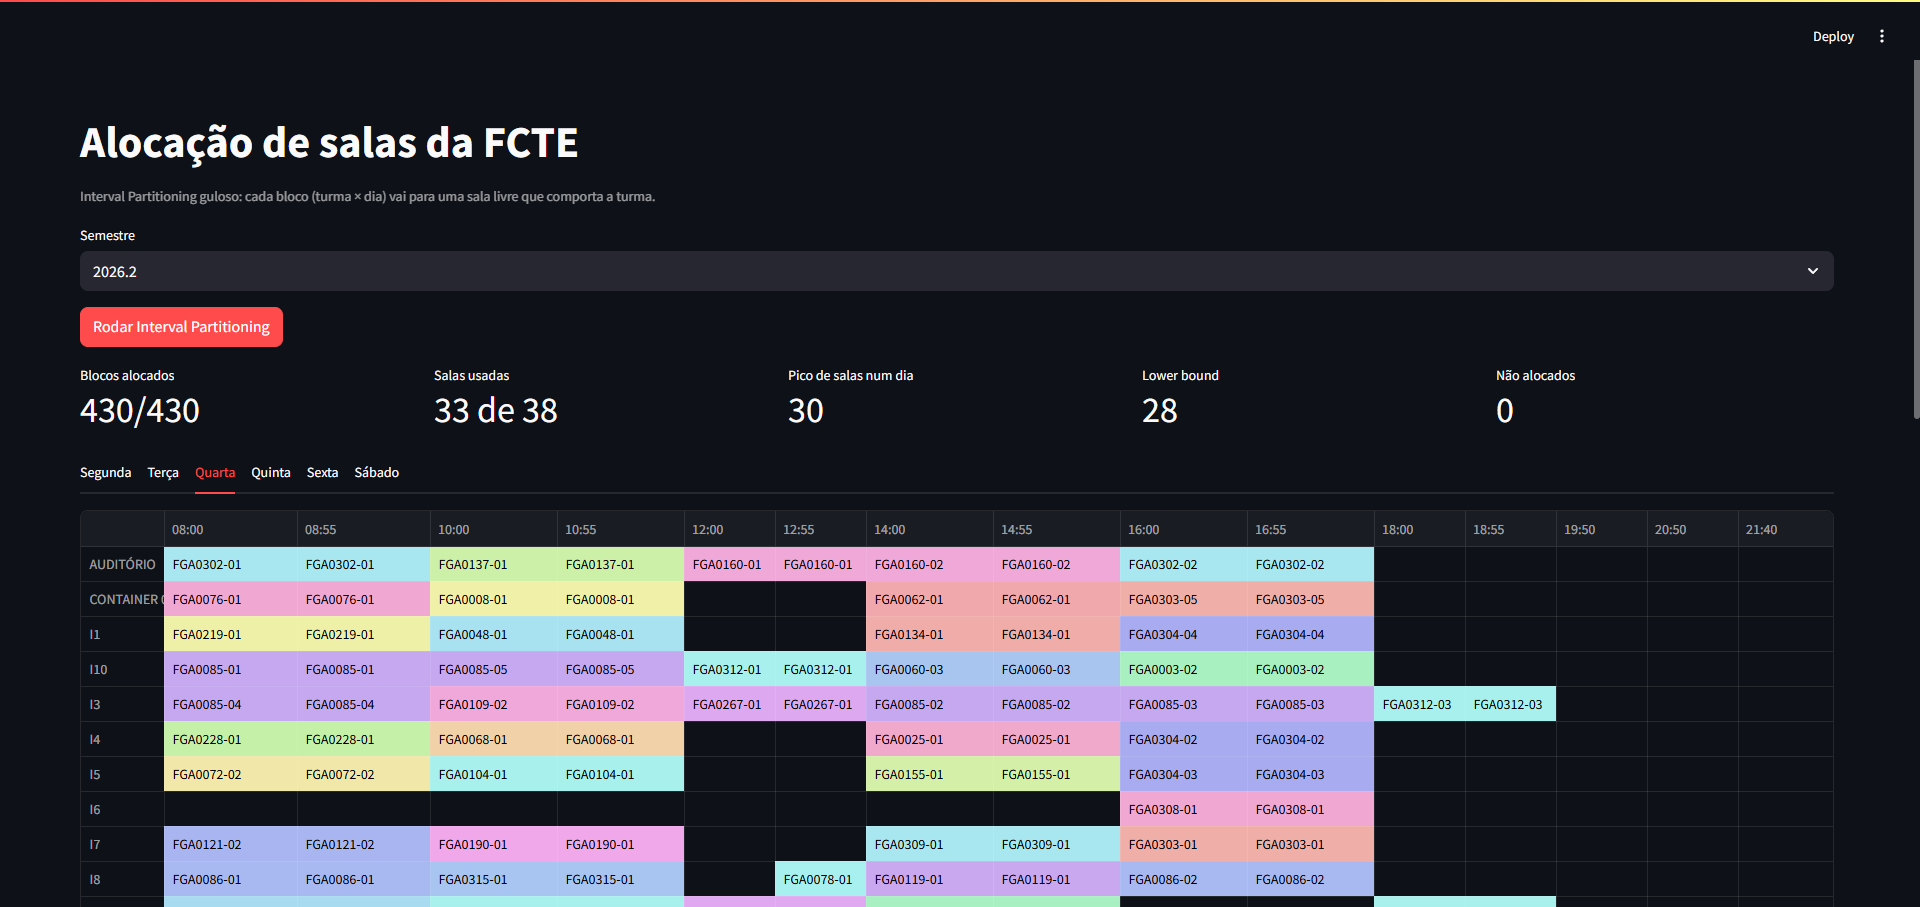
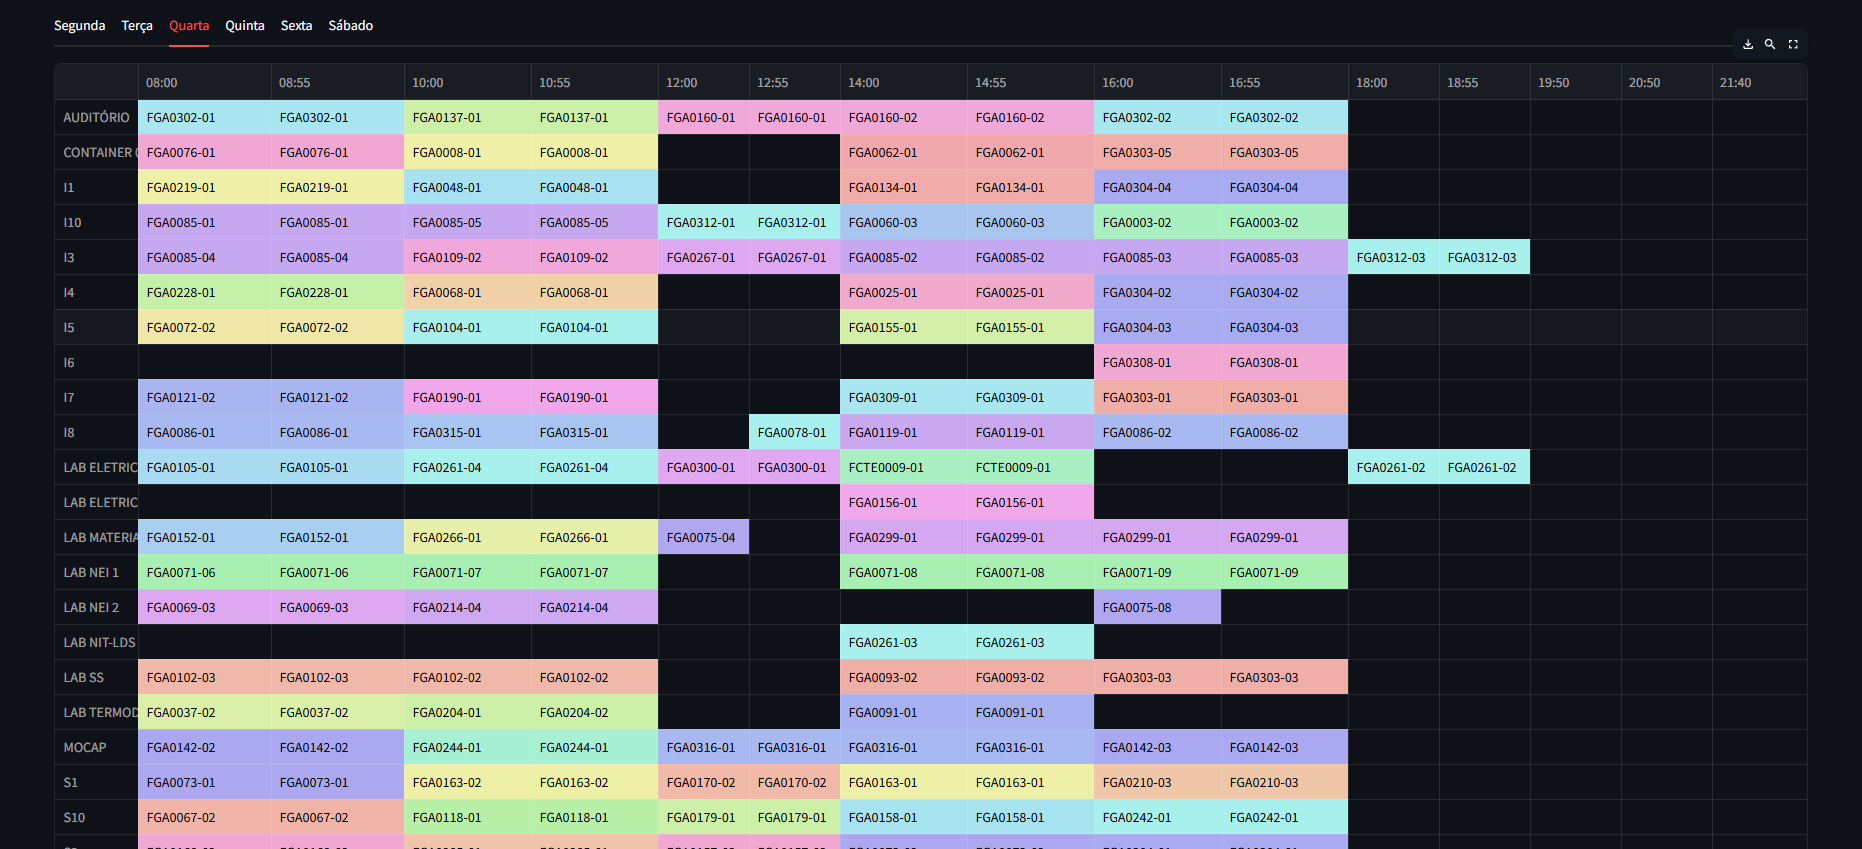
docs: README completo com screenshots atualizados
Traz o README preenchido (Sobre, algoritmo, resultados, instalação e
uso) e troca os screenshots pelos da interface atual, já com "Limite
inferior".

diff --git a/README.md b/README.md
@@ -1,11 +1,5 @@
-**!! Atenção: Renomeie o seu repositório para (Tema)_(NomeDoProjeto). !!** 
+# AlocacaoSalasFCTE
 
-Temas:
- - Greed
-
-# NomedoProjeto
-
-**Número da Lista**: X<br>
 **Conteúdo da Disciplina**: Greed<br>
 
 ## Alunos
@@ -15,34 +9,41 @@ Temas:
 | 21/1062179  |  Marcelo de Araújo Lopes |
 | 17/0020339  |  Paulo Lucca |
 
-## Sobre 
-Descreva os objetivos do seu projeto e como ele funciona. 
+## Sobre
 
-## Screenshots
-Adicione 3 ou mais screenshots do projeto em funcionamento.
+O projeto aloca as turmas de graduação da FCTE (UnB, campus Gama) nas salas do
+campus sem conflito de horário, respeitando a capacidade de cada sala e usando o
+menor número de salas possível. É o problema clássico de **Interval Partitioning**,
+resolvido com um algoritmo guloso.
 
-## Instalação 
-**Linguagem**: xxxxxx<br>
-**Framework**: (caso exista)<br>
-Descreva os pré-requisitos para rodar o seu projeto e os comandos necessários.
+Etapas:
 
-## Uso 
-Explique como usar seu projeto caso haja algum passo a passo após o comando de execução.
+1. **Coleta** (`scraper.py`): busca as turmas do semestre no SIGAA público, com
+   código, horário, vagas e local. Os dados de 2026.2 (229 turmas) estão salvos em
+   `data/turmas_2026_2.json`.
+2. **Horários** (`horario.py`): converte o código do SIGAA em intervalos. Por
+   exemplo, `35T23` vira terça e quinta, das 14:00 às 15:50.
+3. **Salas** (`salas.py`): extrai as 38 salas do campo "local" das turmas e salva em
+   `data/salas.json`. O SIGAA não informa a capacidade, então ela é estimada pelo
+   maior número de vagas ofertadas numa turma que usa aquela sala.
+4. **Alocação** (`alocacao.py`): Interval Partitioning guloso, explicado abaixo.
+5. **Interface** (`app.py`): app em Streamlit que roda a alocação e mostra a grade
+   sala × horário de cada dia.
 
-## Algoritmo: Interval Partitioning
+### Algoritmo: Interval Partitioning
 
 Cada turma é quebrada em blocos (turma × dia de aula), e cada bloco é um intervalo
 `[início, fim)`. A alocação é **por bloco**: a mesma turma pode ficar em salas
 diferentes em dias diferentes, como já acontece no SIGAA.
 
-Guloso (`alocacao.py`):
+O guloso:
 
-1. Ordena os blocos por dia e hora de início (no empate, a turma maior primeiro).
-2. Para cada bloco, olha as salas livres naquele horário que comportam as vagas da turma.
-3. Escolhe uma sala já aberta naquele dia, se houver; senão, abre a menor sala que serve.
+1. Ordena os blocos por dia e hora de início. No empate, a turma maior vem primeiro.
+2. Para cada bloco, separa as salas livres naquele horário que comportam as vagas da turma.
+3. Escolhe uma sala já aberta naquele dia, se houver. Senão, abre a menor sala que serve.
 4. Se nenhuma sala serve, o bloco entra no relatório de não alocados.
 
-**Lower bound.** A profundidade `d` é o maior número de blocos acontecendo ao
+**Limite inferior (lower bound).** A profundidade `d` é o maior número de blocos acontecendo ao
 mesmo tempo. Qualquer alocação precisa de pelo menos `d` salas, porque esses
 blocos se sobrepõem dois a dois.
 
@@ -54,13 +55,84 @@ processados por hora de início, cada um desses `k − 1` blocos começou antes 
 com `b`, são `k` blocos sobrepostos, logo `k ≤ d`. O guloso nunca usa mais que `d`
 salas, e nenhuma solução usa menos, então ele é ótimo.
 
-Com capacidade, a sala aberta pode não servir para a turma, e o guloso pode passar
-de `d`. Nos dados de 2026.2, os 430 blocos são todos alocados, com pico de 30 salas
-num dia contra um lower bound de 28.
+**Com capacidade**, a sala aberta pode não servir para a turma, e o guloso pode
+passar de `d`.
 
-## Outros 
-Quaisquer outras informações sobre seu projeto podem ser descritas abaixo.
+### Resultados (2026.2)
 
+| Métrica | Valor |
+| -- | -- |
+| Blocos alocados | 430 de 430 |
+| Salas usadas no semestre | 33 de 38 |
+| Pico de salas num dia | 30 |
+| Limite inferior (profundidade) | 28 |
+| Sem restrição de capacidade | 28, igual ao limite inferior |
 
+## Screenshots
 
+**1. Tela inicial e métricas.** Escolha do semestre, botão que roda o algoritmo e o
+resultado: todos os 430 blocos alocados, pico de 30 salas num dia contra um limite
+inferior de 28, e nenhum bloco sem sala.
 
+![Tela inicial e métricas](docs/screenshots/01_metricas.png)
+
+**2. Grade sala × horário (quarta-feira).** Cada linha é uma sala, cada coluna é o
+início de um horário, e cada cor é uma disciplina. As abas trocam o dia da semana.
+Células vazias são horários em que a sala ficou livre.
+
+![Grade de quarta-feira](docs/screenshots/02_grade_quarta.png)
+
+**3. Turmas do dia.** Lista de cada bloco do dia, com disciplina, turma, vagas,
+horário e a sala escolhida pelo algoritmo. As turmas maiores vão para as salas
+maiores, como a de 120 vagas no Auditório.
+
+![Turmas do dia](docs/screenshots/03_turmas_do_dia.png)
+
+## Instalação
+
+**Linguagem**: Python 3.10+<br>
+**Framework**: Streamlit<br>
+
+```bash
+git clone https://github.com/Rukkakun/G22_PA-26.2.git
+cd G22_PA-26.2
+pip install -r requirements.txt
+```
+
+## Uso
+
+Abrir a interface:
+
+```bash
+streamlit run app.py
+```
+
+No navegador, escolha o semestre e clique em **Rodar Interval Partitioning**. As
+abas mostram a grade de cada dia da semana.
+
+Rodar só a alocação no terminal:
+
+```bash
+python -m alocacao data/turmas_2026_2.json
+```
+
+Coletar de novo os dados do SIGAA e regerar as salas (opcional, os dados de 2026.2
+já estão no repositório):
+
+```bash
+python -m scraper --ano 2026 --periodo 2
+python -m salas data/turmas_2026_2.json
+```
+
+Rodar os testes:
+
+```bash
+python -m pytest
+```
+
+## Outros
+
+- O SIGAA público só lista o semestre corrente.
+- A capacidade das salas é uma estimativa. Para corrigir uma sala, edite
+  `data/salas.json` à mão.
+- O algoritmo não diferencia sala de aula e laboratório.
